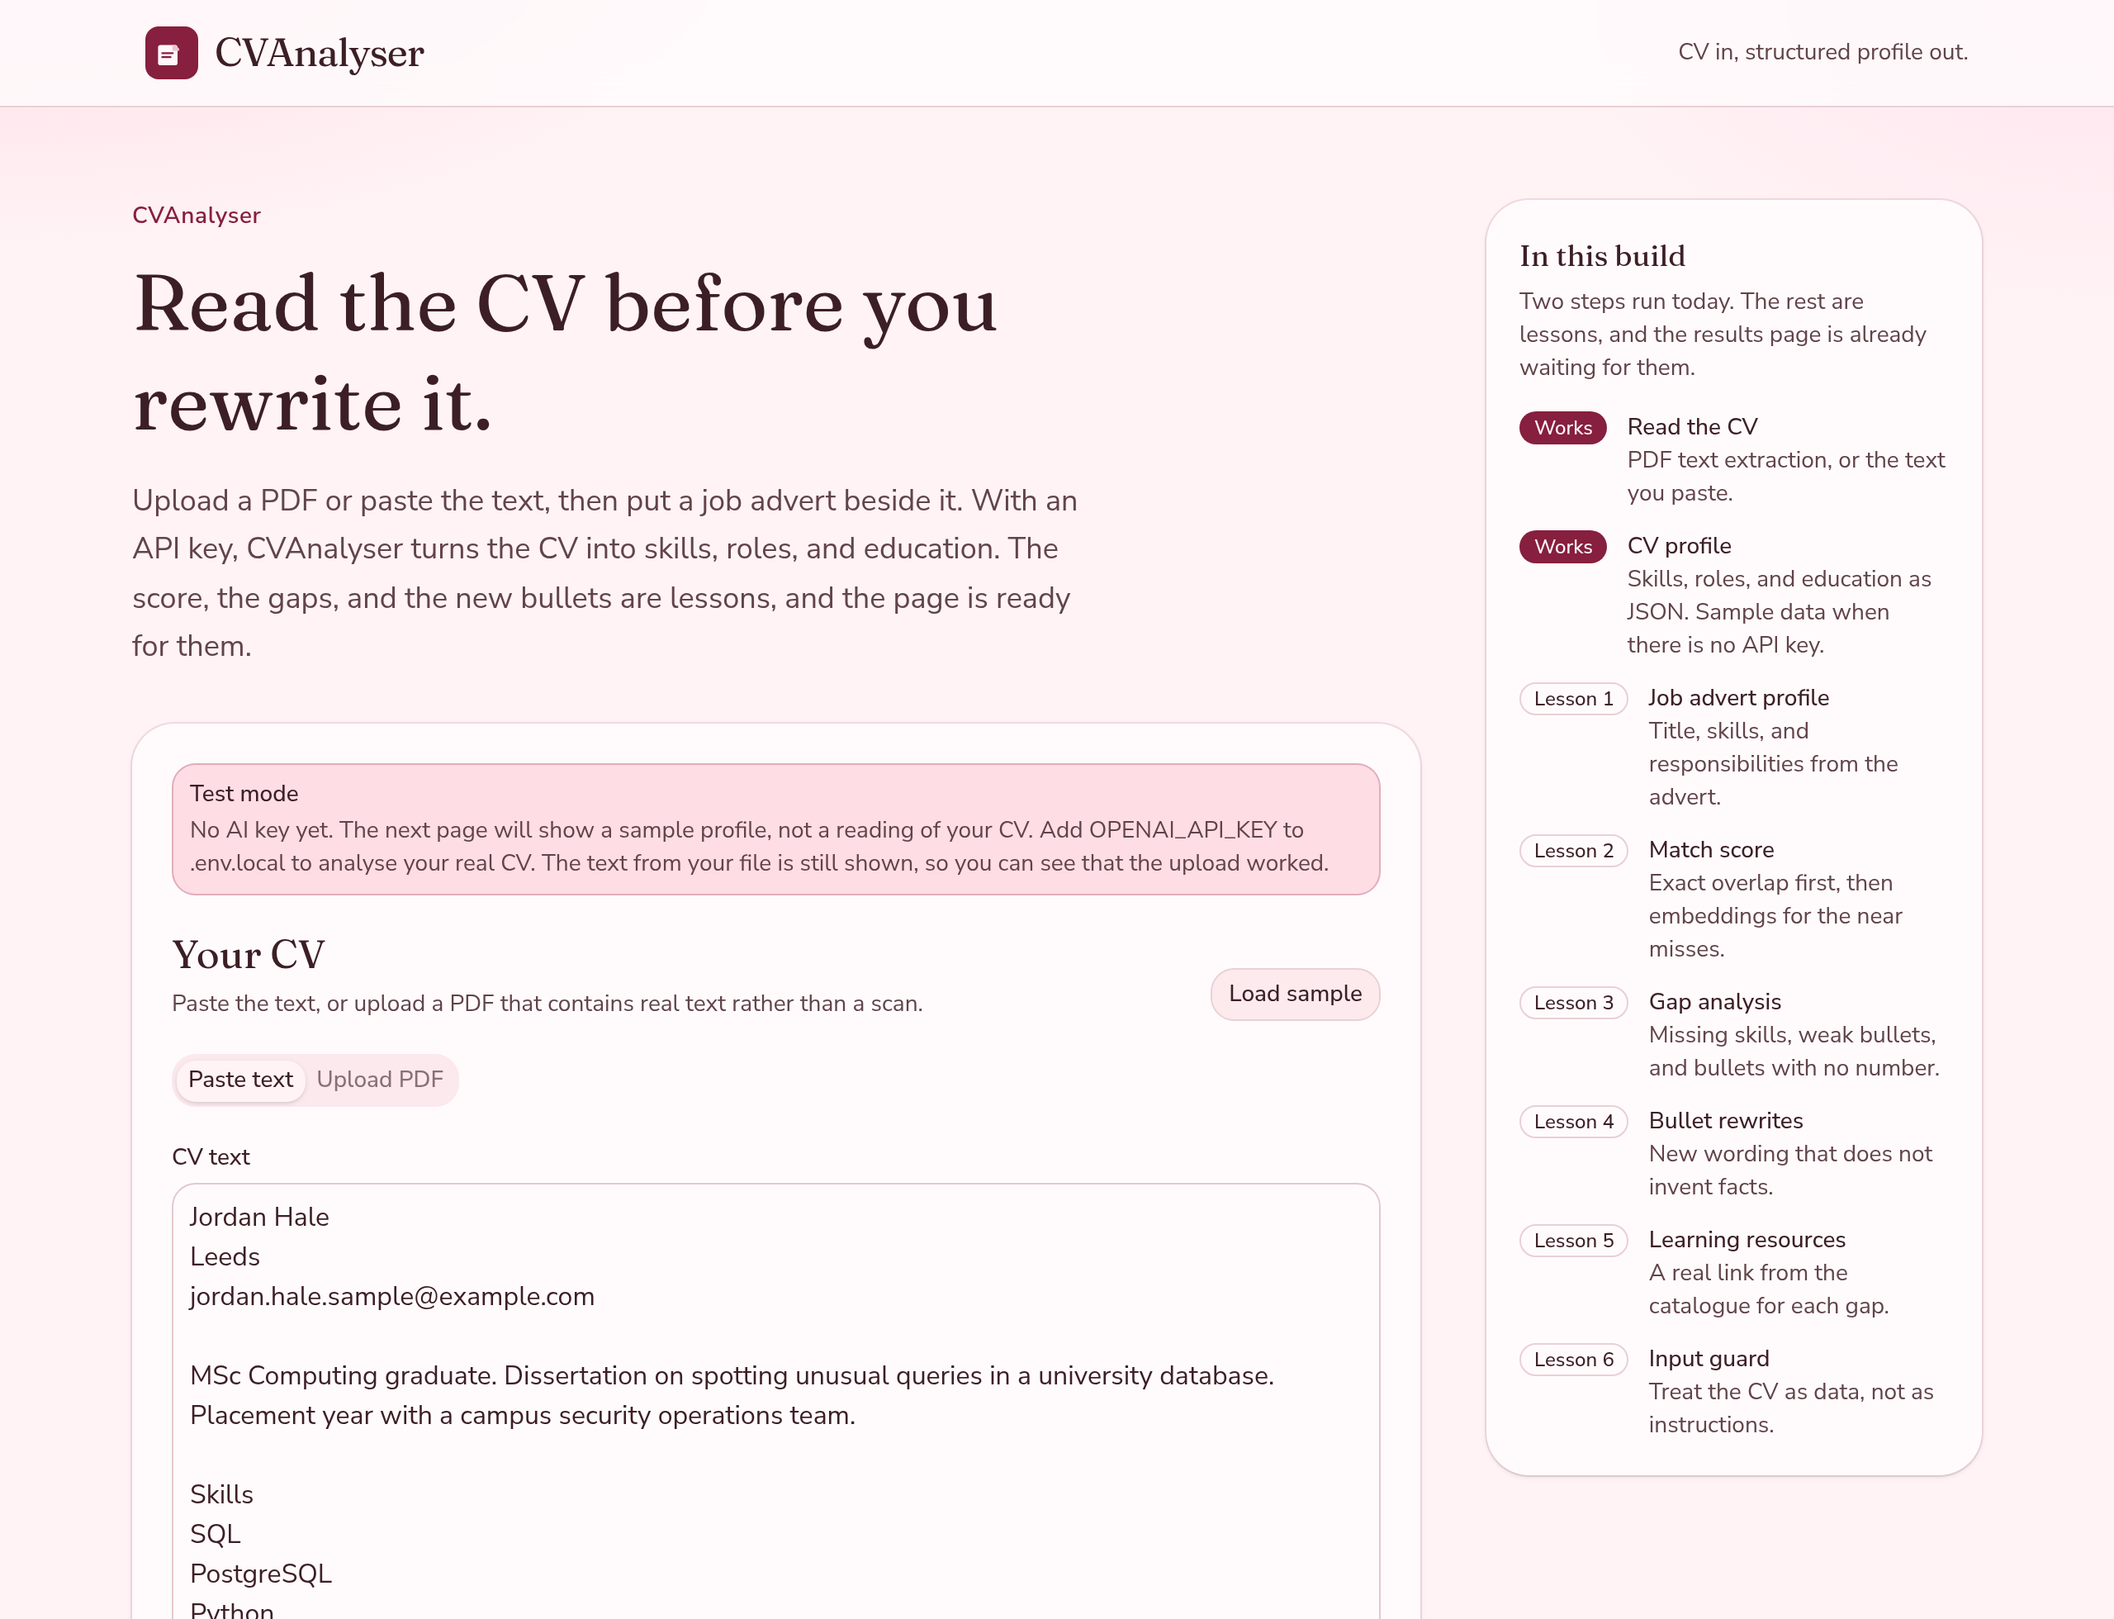
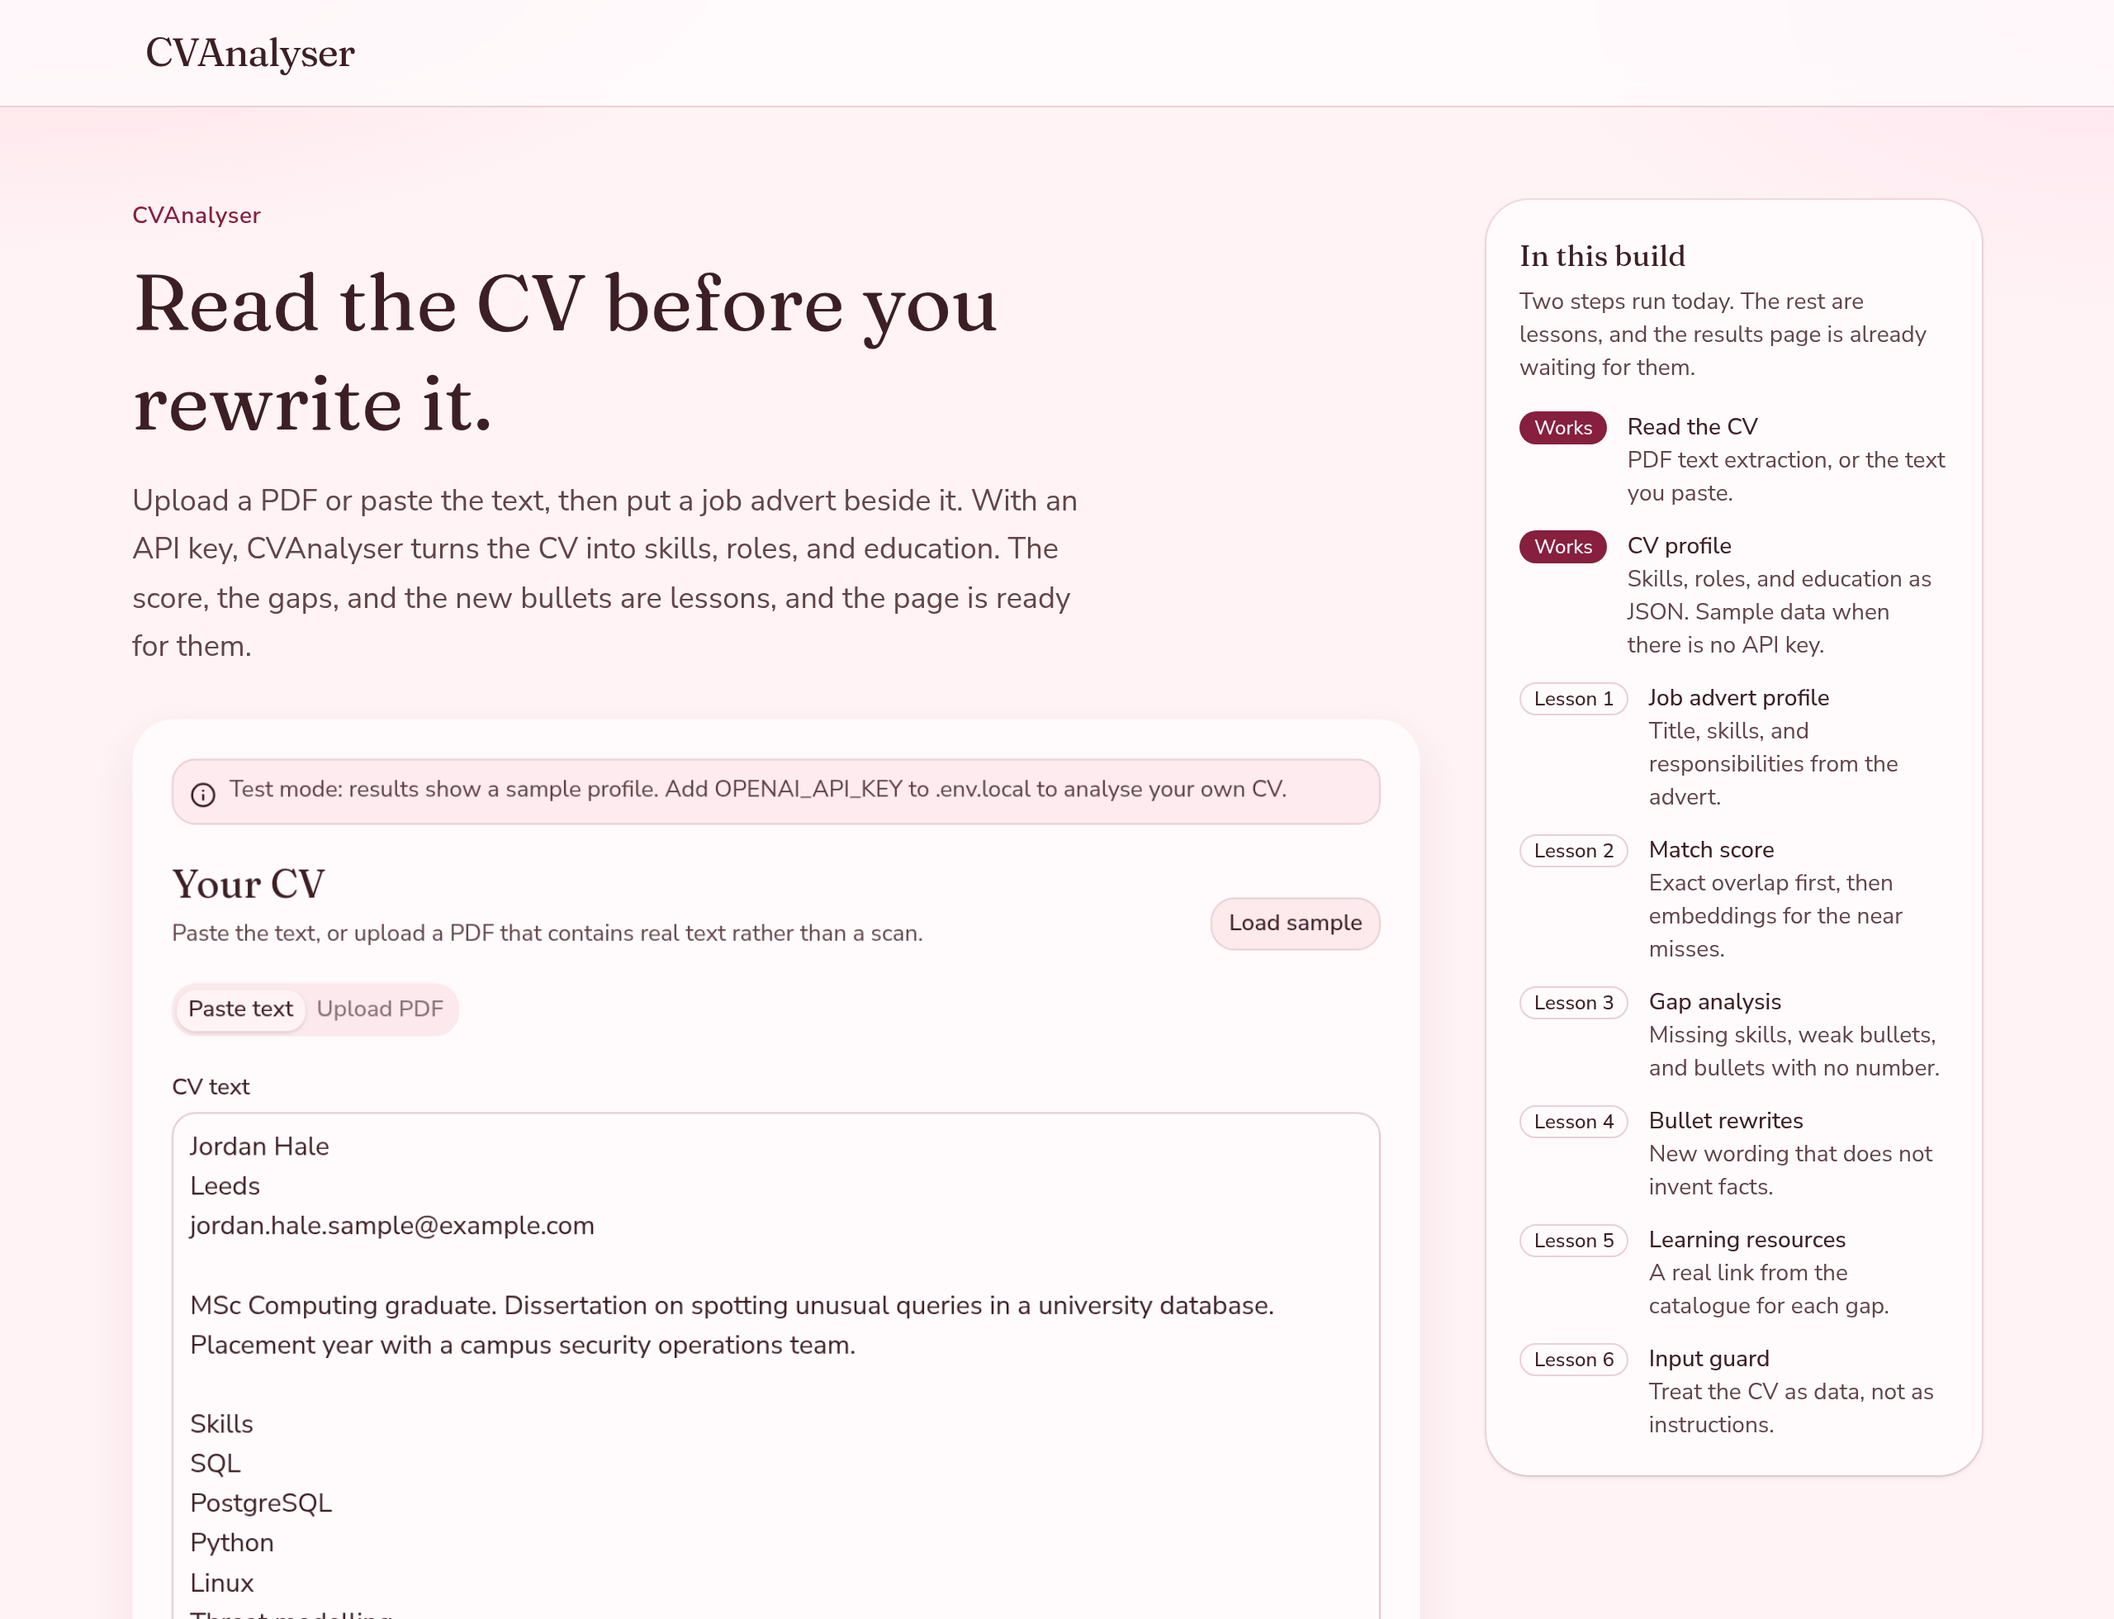
Polish CVAnalyser motion, header, and test-mode notice
Cards fade in and lift slightly on hover. The header is the wordmark only, the privacy footer is gone, and the results bar uses a real button plus a compact test-mode alert.

Changed region(s): [[0.0625, 0.4668, 0.6562, 1.0], [0.0625, 0.0, 0.1875, 0.0622], [0.5625, 0.7781, 0.5938, 0.8092]]

diff --git a/components/results-view.tsx b/components/results-view.tsx
@@ -1,5 +1,6 @@
 "use client";
 
+import { ArrowLeft, Info } from "lucide-react";
 import Link from "next/link";
 import { useSyncExternalStore } from "react";
 
@@ -43,26 +44,30 @@ export function ResultsView() {
   return (
     <div className="mx-auto max-w-6xl space-y-8 px-4 py-10">
       <div className="flex flex-col gap-3 sm:flex-row sm:items-center sm:justify-between">
-        <Link href="/" className="text-sm text-primary underline-offset-4 hover:underline">
+        <Link
+          href="/"
+          className={cn(buttonVariants({ variant: "outline" }), "h-9 w-fit gap-1.5 px-3")}
+        >
+          <ArrowLeft />
           Analyse another CV
         </Link>
-        <p className="text-sm font-medium text-primary">
-          {result.mode === "mock" ? "Test mode" : `Live · ${result.model ?? "model"}`}
-        </p>
+        {result.mode === "live" ? (
+          <p className="text-sm text-muted-foreground">Live · {result.model ?? "model"}</p>
+        ) : null}
       </div>
 
       {result.mode === "mock" ? (
-        <Alert className="border-primary/30 bg-accent">
-          <AlertTitle>Test mode</AlertTitle>
-          <AlertDescription>
-            Test mode: no AI key yet, so you&apos;re seeing a sample profile, not your CV. Add OPENAI_API_KEY to .env.local to analyse your real CV.
+        <Alert className="items-center border-border bg-secondary/70 py-2 text-foreground shadow-none">
+          <Info />
+          <AlertDescription className="text-foreground/85">
+            Test mode: showing a sample profile. Add OPENAI_API_KEY to .env.local to analyse your own CV.
           </AlertDescription>
         </Alert>
       ) : (
-        <Alert>
-          <AlertTitle>Live mode</AlertTitle>
+        <Alert className="items-center border-border bg-card py-2 shadow-none">
+          <Info />
           <AlertDescription>
-            Profile extracted with {result.model}. Check anything important against the CV text at the bottom. Models miss things, and sometimes add them.
+            Profile extracted with {result.model}. Check anything important against the text read from your CV.
           </AlertDescription>
         </Alert>
       )}
@@ -104,7 +109,8 @@ export function ResultsView() {
         </Alert>
       ) : null}
 
-      <section className="rounded-2xl bg-card px-5 py-5 shadow-sm ring-1 ring-primary/10">
+      <div className="rise-in">
+      <section className="card-lift rounded-2xl bg-card px-5 py-5 shadow-sm ring-1 ring-primary/10">
         <h2 className="font-heading text-2xl">Text read from your CV</h2>
         <p className="mt-2 max-w-3xl text-sm leading-relaxed text-muted-foreground">
           This is the text taken from the file or paste you just submitted. If you recognise it, the upload worked. In test mode the profile further down is still the sample, not this text.
@@ -113,6 +119,7 @@ export function ResultsView() {
           {result.cvText}
         </pre>
       </section>
+      </div>
 
       <CvProfileView profile={result.cvProfile} />
       <PlannedSections result={result} />

diff --git a/components/planned-sections.tsx b/components/planned-sections.tsx
@@ -45,7 +45,8 @@ export function PlannedSections({ result }: { result: AnalyseResponse }) {
           </div>
         ) : (
           <div className="space-y-4">
-            <div className="rounded-2xl bg-card px-5 py-5 shadow-sm ring-1 ring-primary/10">
+            <div className="rise-in" style={{ animationDelay: "140ms" }}>
+            <div className="card-lift rounded-2xl bg-card px-5 py-5 shadow-sm ring-1 ring-primary/10">
               <h2 className="font-heading text-2xl">Your job advert</h2>
               <p className="mt-2 max-w-3xl text-sm leading-relaxed text-muted-foreground">
                 This is the advert you pasted. CVAnalyser has not matched it to the CV. That matching starts in Lesson 1, and it is not built yet.
@@ -54,7 +55,8 @@ export function PlannedSections({ result }: { result: AnalyseResponse }) {
                 {result.jobAdvertText}
               </pre>
             </div>
-            <LessonCard step={lessonStep("job")} />
+            </div>
+            <LessonCard step={lessonStep("job")} delay={200} />
           </div>
         )}
         {result.jobProfile ? (
@@ -105,7 +107,7 @@ export function PlannedSections({ result }: { result: AnalyseResponse }) {
             ) : null}
           </div>
         ) : (
-          <LessonCard step={lessonStep("match")} />
+          <LessonCard step={lessonStep("match")} delay={260} />
         )}
       </section>
 
@@ -133,7 +135,7 @@ export function PlannedSections({ result }: { result: AnalyseResponse }) {
             )}
           </div>
         ) : (
-          <LessonCard step={lessonStep("gaps")} />
+          <LessonCard step={lessonStep("gaps")} delay={320} />
         )}
       </section>
 
@@ -162,7 +164,7 @@ export function PlannedSections({ result }: { result: AnalyseResponse }) {
             )}
           </div>
         ) : (
-          <LessonCard step={lessonStep("rewrites")} />
+          <LessonCard step={lessonStep("rewrites")} delay={380} />
         )}
       </section>
 
@@ -194,11 +196,11 @@ export function PlannedSections({ result }: { result: AnalyseResponse }) {
             )}
           </div>
         ) : (
-          <LessonCard step={lessonStep("resources")} />
+          <LessonCard step={lessonStep("resources")} delay={440} />
         )}
       </section>
 
-      {result.guard.active ? null : <LessonCard step={lessonStep("guard")} />}
+      {result.guard.active ? null : <LessonCard step={lessonStep("guard")} delay={500} />}
     </div>
   );
 }

diff --git a/components/site-chrome.tsx b/components/site-chrome.tsx
@@ -1,59 +1,19 @@
 import Link from "next/link";
 
-function Mark({ className }: { className?: string }) {
-  return (
-    <svg
-      viewBox="0 0 32 32"
-      aria-hidden="true"
-      className={className}
-    >
-      <rect width="32" height="32" rx="8" fill="currentColor" />
-      <path
-        d="M9 11.2h9.2c.7 0 1.3.6 1.3 1.3V22.2c0 .7-.6 1.3-1.3 1.3H9c-.7 0-1.3-.6-1.3-1.3V12.5c0-.7.6-1.3 1.3-1.3z"
-        fill="#fff7fa"
-      />
-      <path d="M16.4 11.2h1.8l2.3 2.3v1.2h-4.1V11.2z" fill="#f0c2d2" />
-      <path
-        d="M10.2 16.2h6.4M10.2 18.6h5.1"
-        stroke="currentColor"
-        strokeWidth="1.1"
-        strokeLinecap="round"
-      />
-    </svg>
-  );
-}
-
 export function SiteHeader() {
   return (
     <header className="border-b border-border bg-card/80 backdrop-blur-md">
-      <div className="mx-auto flex max-w-6xl items-center justify-between gap-4 px-4 py-4 sm:px-6">
+      <div className="mx-auto flex max-w-6xl items-center px-4 py-4 sm:px-6">
         <a
           href="#main"
           className="sr-only focus:not-sr-only focus:absolute focus:left-4 focus:top-4 focus:z-10 focus:rounded-md focus:bg-card focus:px-3 focus:py-2"
         >
           Skip to content
         </a>
-        <Link href="/" className="flex items-center gap-2.5 text-foreground">
-          <Mark className="size-8 text-primary" />
-          <span className="font-heading text-2xl tracking-tight">CVAnalyser</span>
+        <Link href="/" className="font-heading text-2xl tracking-tight text-foreground">
+          CVAnalyser
         </Link>
-        <p className="text-right text-sm text-muted-foreground">
-          CV in, structured profile out.
-        </p>
       </div>
     </header>
-  );
-}
-
-export function SiteFooter() {
-  return (
-    <footer className="border-t border-border">
-      <div className="mx-auto flex max-w-6xl flex-col gap-2 px-4 py-8 text-sm text-muted-foreground sm:flex-row sm:items-center sm:justify-between sm:px-6">
-        <p>CVAnalyser keeps the last result in this browser tab. Nothing is saved in a database.</p>
-        <p className="max-w-md sm:text-right">
-          Test mode does not send your CV anywhere. With an API key, the CV text goes to OpenAI.
-        </p>
-      </div>
-    </footer>
   );
 }

diff --git a/components/analyse-form.tsx b/components/analyse-form.tsx
@@ -1,5 +1,6 @@
 "use client";
 
+import { Info } from "lucide-react";
 import { useState } from "react";
 import { useRouter } from "next/navigation";
 
@@ -121,11 +122,11 @@ export function AnalyseForm() {
   }
 
   return (
-    <form onSubmit={onSubmit} className="rounded-2xl bg-card px-4 py-6 shadow-sm ring-1 ring-primary/10 sm:px-6" aria-busy={pending}>
-      <Alert className="mb-5 border-primary/25 bg-accent">
-        <AlertTitle>Test mode</AlertTitle>
-        <AlertDescription>
-          No AI key yet. The next page will show a sample profile, not a reading of your CV. Add OPENAI_API_KEY to .env.local to analyse your real CV. The text from your file is still shown, so you can see that the upload worked.
+    <form onSubmit={onSubmit} className="card-lift rounded-2xl bg-card px-4 py-6 shadow-sm ring-1 ring-primary/10 sm:px-6" aria-busy={pending}>
+      <Alert className="mb-5 items-center border-border bg-secondary/70 py-2 text-foreground shadow-none">
+        <Info />
+        <AlertDescription className="text-foreground/85">
+          Test mode: results show a sample profile. Add OPENAI_API_KEY to .env.local to analyse your own CV.
         </AlertDescription>
       </Alert>
       <div className="flex flex-col gap-3 sm:flex-row sm:items-end sm:justify-between">

diff --git a/components/lesson-card.tsx b/components/lesson-card.tsx
@@ -1,8 +1,9 @@
 import type { PipelineStep } from "@/lib/pipeline";
 
-export function LessonCard({ step }: { step: PipelineStep }) {
+export function LessonCard({ step, delay = 0 }: { step: PipelineStep; delay?: number }) {
   return (
-    <article className="rounded-2xl border border-dashed border-primary/35 bg-accent/40 px-5 py-5">
+    <div className="rise-in" style={{ animationDelay: `${delay}ms` }}>
+    <article className="card-lift rounded-2xl border border-dashed border-primary/35 bg-accent/40 px-5 py-5">
       <p className="font-mono text-xs uppercase tracking-[0.14em] text-primary">
         Lesson {step.lesson}
         {step.lessonName ? ` · ${step.lessonName}` : ""}
@@ -15,5 +16,6 @@ export function LessonCard({ step }: { step: PipelineStep }) {
         </p>
       ) : null}
     </article>
+    </div>
   );
 }

diff --git a/components/cv-profile-view.tsx b/components/cv-profile-view.tsx
@@ -39,7 +39,8 @@ export function CvProfileView({ profile }: { profile: CvProfile }) {
     .filter((group) => group.skills.length > 0);
 
   return (
-    <div className="space-y-10">
+    <div className="rise-in" style={{ animationDelay: "70ms" }}>
+    <div className="card-lift space-y-10 rounded-2xl bg-card px-5 py-6 shadow-sm ring-1 ring-primary/10 sm:px-6">
       <header>
         <p className="font-mono text-xs uppercase tracking-[0.16em] text-primary">CV profile</p>
         <h1 className="mt-2 font-heading text-4xl leading-tight sm:text-5xl">
@@ -133,6 +134,7 @@ export function CvProfileView({ profile }: { profile: CvProfile }) {
           </ul>
         )}
       </section>
+    </div>
     </div>
   );
 }

diff --git a/app/page.tsx b/app/page.tsx
@@ -12,11 +12,11 @@ export default function HomePage() {
         <p className="mt-4 max-w-xl text-lg leading-relaxed text-muted-foreground">
           Upload a PDF or paste the text, then put a job advert beside it. With an API key, CVAnalyser turns the CV into skills, roles, and education. The score, the gaps, and the new bullets are lessons, and the page is ready for them.
         </p>
-        <div className="mt-8">
+        <div className="rise-in mt-8">
           <AnalyseForm />
         </div>
       </div>
-      <aside className="lg:sticky lg:top-6">
+      <aside className="rise-in lg:sticky lg:top-6" style={{ animationDelay: "90ms" }}>
         <PipelineList />
       </aside>
     </div>

diff --git a/app/globals.css b/app/globals.css
@@ -133,3 +133,43 @@
     background-attachment: fixed;
   }
 }
+
+@keyframes rise-in {
+  from {
+    opacity: 0;
+    transform: translateY(12px);
+  }
+  to {
+    opacity: 1;
+    transform: none;
+  }
+}
+
+.rise-in {
+  animation: rise-in 0.55s cubic-bezier(0.22, 1, 0.36, 1) both;
+}
+
+.card-lift {
+  transition:
+    transform 0.2s ease,
+    box-shadow 0.2s ease;
+}
+
+.card-lift:hover {
+  transform: translateY(-3px);
+  box-shadow: 0 14px 32px oklch(0.45 0.08 8 / 0.12);
+}
+
+@media (prefers-reduced-motion: reduce) {
+  .rise-in {
+    animation: none;
+  }
+
+  .card-lift {
+    transition: none;
+  }
+
+  .card-lift:hover {
+    transform: none;
+  }
+}

diff --git a/components/pipeline-list.tsx b/components/pipeline-list.tsx
@@ -4,7 +4,7 @@ import { Badge } from "@/components/ui/badge";
 
 export function PipelineList() {
   return (
-    <section className="rounded-2xl bg-card px-5 py-5 shadow-sm ring-1 ring-primary/10">
+    <section className="card-lift rounded-2xl bg-card px-5 py-5 shadow-sm ring-1 ring-primary/10">
       <h2 className="font-heading text-lg">In this build</h2>
       <p className="mt-1 text-sm text-muted-foreground">
         Two steps run today. The rest are lessons, and the results page is already waiting for them.

diff --git a/app/layout.tsx b/app/layout.tsx
@@ -1,7 +1,7 @@
 import type { Metadata } from "next";
 import { Fraunces, Nunito_Sans } from "next/font/google";
 
-import { SiteFooter, SiteHeader } from "@/components/site-chrome";
+import { SiteHeader } from "@/components/site-chrome";
 
 import "./globals.css";
 
@@ -37,7 +37,6 @@ export default function RootLayout({ children }: LayoutProps<"/">) {
         <main id="main" className="flex-1">
           {children}
         </main>
-        <SiteFooter />
       </body>
     </html>
   );
